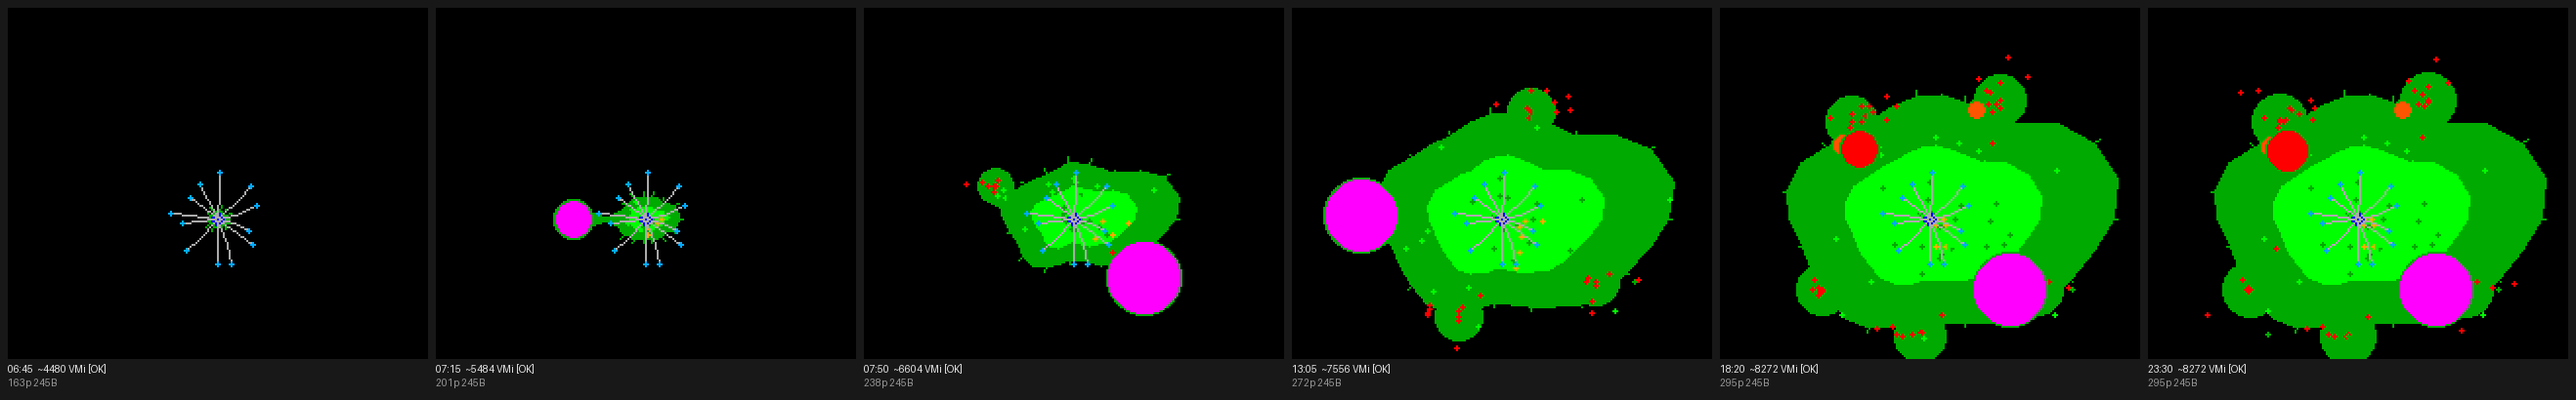
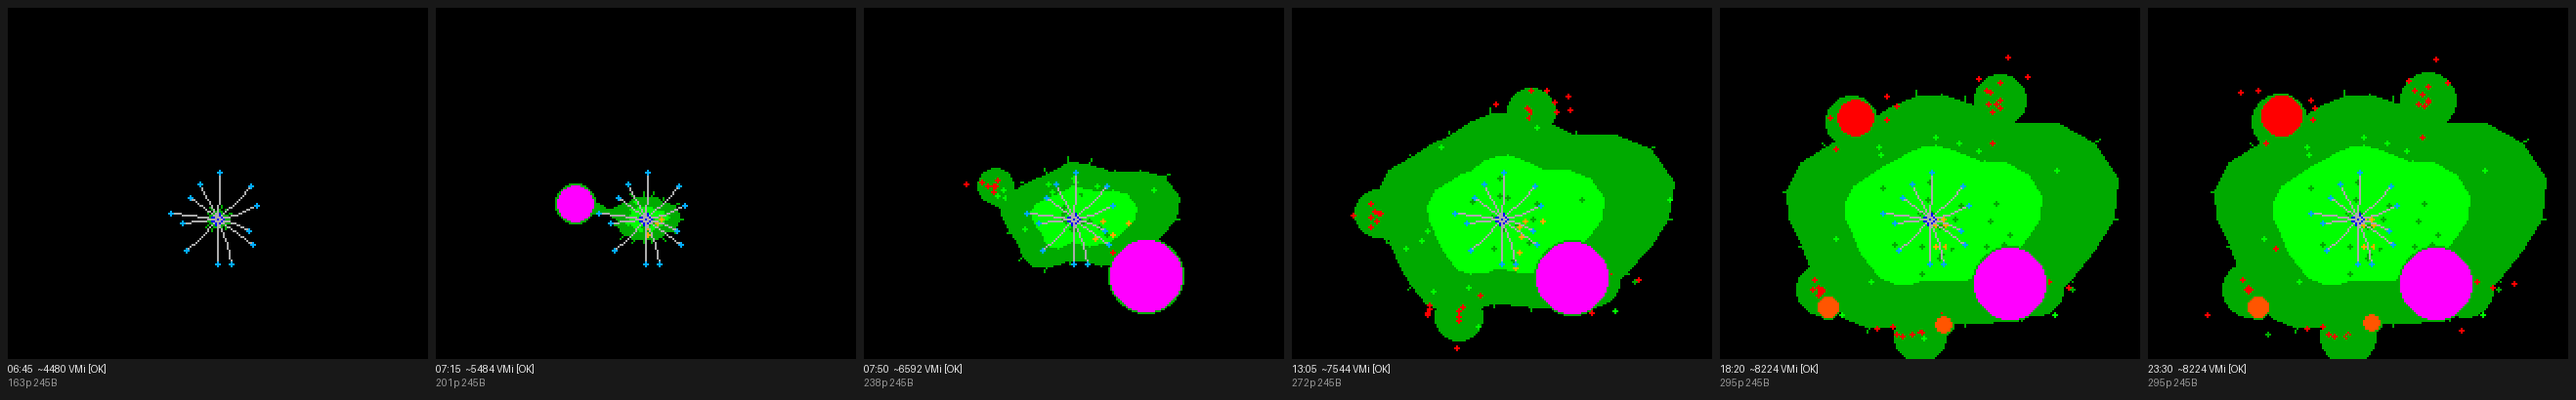
sandbox: stalks v4 -- golden-angle bead spread (owner: less overlap)
Bead angles were independent hash16 draws, so episodes birthday-
collided into piles (the two overlapping wrist-photo beads; the heavy
frame stamping orange beads onto the big discs). Angles now walk a
golden sequence (index * 97 & 255 ~ the golden angle, + per-day phase
+ +-10 jitter): any first k beads are near-uniformly spread, and an
existing bead never moves when a new episode opens. Tufts are dealt
round-robin instead of hashed; e and e+ntuft share a tuft but their
golden offsets stay a wide angle apart for every ntuft in 1..7.

Strictly cheaper than ship: the hash16 tuft pick is gone, no new
state (245 B unchanged), no collision pass. Scrub peaks drop 8272 ->
8224 (active) / 8404 -> 8356 (restless) / 10184 -> 9992 (heavy) VMi.

Claude-Session: https://claude.ai/code/session_01QxCUX1szhtWtfFsS2uoXfW

diff --git a/sketches/algos/moss_grove_stalks.py b/sketches/algos/moss_grove_stalks.py
@@ -29,6 +29,12 @@ TREATMENT (episodes layer only; everything else inherited from moss_grove):
                    (owner, 2026-07-14: no kink, thicker, thick at each
                    end). The bead's dark ring caps the tip; the tuft blob /
                    rim fringe covers the base.
+  spread           bead angles walk a golden sequence (index * 97 & 255 +
+                   a per-day phase + small jitter) and tufts are dealt
+                   round-robin instead of hashed, so beads stop piling up
+                   on one another (owner, 2026-07-14: less overlap).
+                   Cheaper than ship -- one hash16 per bead dropped, no
+                   new state, no collision pass.
 
 Contiguity self-heals as the day accretes: once the rim overtakes the
 keep-out the clamps never fire, no stalks, and the geometry is identical to
@@ -151,9 +157,21 @@ class MossGroveStalks(mg.MossGrove):
                         px(CX, e + le, a), py(CY, e + le, a))
             ink -= 1
 
-        # >>> episodes: EXACT per-bead keep-out, rim embed, stalks ------------
+        # >>> episodes: EXACT per-bead keep-out, rim embed, stalks, spread ----
         # rl = the root star's true reach (outermost tip radius). The ship
         # blanket (rl + 20 + scl(6)) priced every bead at the worst case.
+        #
+        # Bead ANGLES walk a golden sequence (97 ~ 256/phi^2, the golden
+        # angle) from a per-day phase instead of independent hashes: any
+        # first k beads are near-uniformly spread, so beads stop piling up
+        # (owner, 2026-07-14: less overlap). Index-based, so an existing
+        # bead never moves when a new episode opens; +-10 hash jitter keeps
+        # it from reading mechanical. Tufts are dealt round-robin for the
+        # same reason -- and both TOGETHER stay spread: episodes e, e+ntuft
+        # share a tuft and their golden offsets differ by ntuft*97 & 255,
+        # which is a wide angle for every ntuft in 1..7. Costs LESS than
+        # ship (drops the hash16 tuft pick).
+        ph = seed & 255
         rl = root_len(rec.sleep_seed) if rec.sleep_seed > 0 else 0
         for e in range(rec.nepi):
             if ink <= 0:
@@ -167,14 +185,14 @@ class MossGroveStalks(mg.MossGrove):
             sx = None                       # stalk anchor when displaced
             sy = 0
             if ntuft > 0:
-                t = imod(hash16(seed, e, 41), ntuft)
+                t = imod(e, ntuft)          # round-robin, not hash: even load
                 hj = hash16(seed, t, 31)
                 ta = imod(idiv(t * 256, ntuft) + (hj & 31), 256)
                 rim = self.er[idiv(ta * NA, 256)]
                 trr0 = idiv(rim * (85 + (hj >> 8) % 30), 100)  # REAL tuft
                 he = hash16(seed, e, 42)
                 off = idiv(tsize, 2) + (he >> 8) % 3
-                a = he & 0xFF
+                a = (ph + e * 97 + (he % 21) - 10) & 255   # golden + jitter
                 # polar estimate of the bead centre: the tuft offset split
                 # into a radial part (folded onto the radius) and a
                 # tangential part (folded onto the ANGLE, 41 ~ 256/2pi) --
@@ -213,7 +231,8 @@ class MossGroveStalks(mg.MossGrove):
                 x = tx + idiv(off * isin(a + 64), 127)
                 y = ty + idiv(off * isin(a), 127)
             else:
-                a = imod(hash16(seed, e, 42), 256)
+                he = hash16(seed, e, 42)
+                a = (ph + e * 97 + (he % 21) - 10) & 255   # golden + jitter
                 lim = self.er[idiv(a * NA, 256)]
                 rr = idiv(lim * 3, 5)
                 if rr < need:
